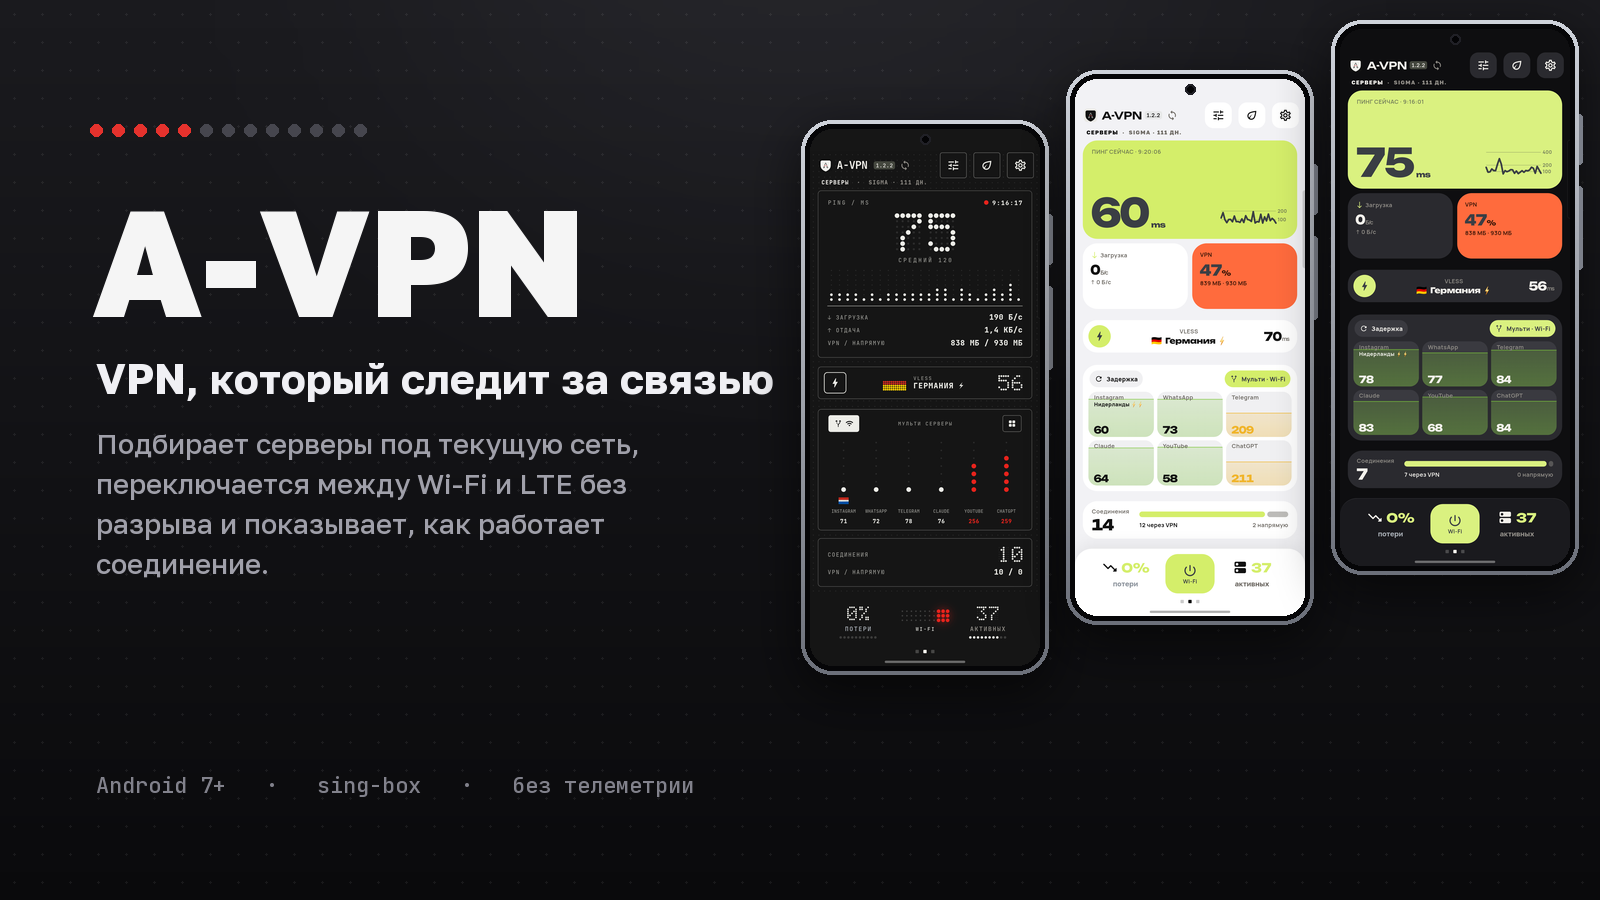
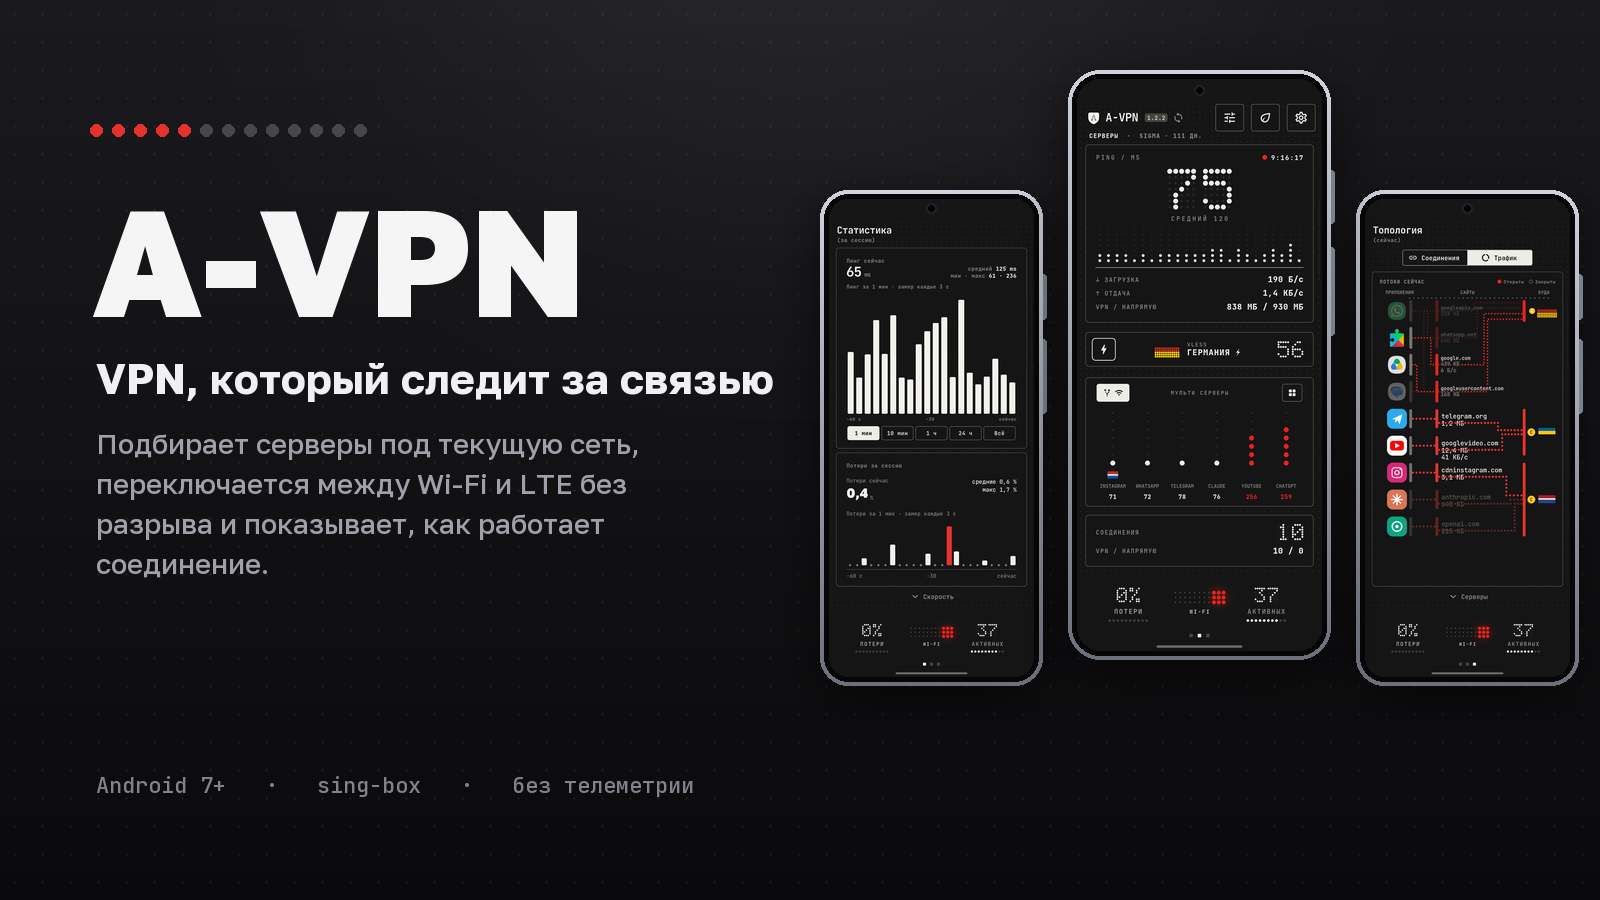
README pictures: hero with the three night screens of the Dots style (statistics, main, topology)

diff --git a/README.md b/README.md
@@ -71,6 +71,8 @@
 
 Два стиля на выбор (минимализм и плитки; есть также стеклянный и контрастный), светлая и тёмная версии, масштаб интерфейса и шрифта.
 
+<sub>На картинках экраны статистики и топологии дополнены примерными данными, остальное снято в приложении.</sub>
+
 ## Установка
 
 1. Скачайте `A-VPN-<версия>-arm64.apk` из [последнего релиза](https://github.com/Aramikkk/A-VPN/releases/latest).
